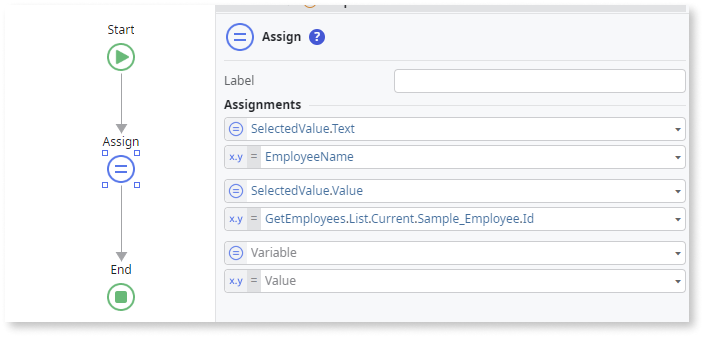
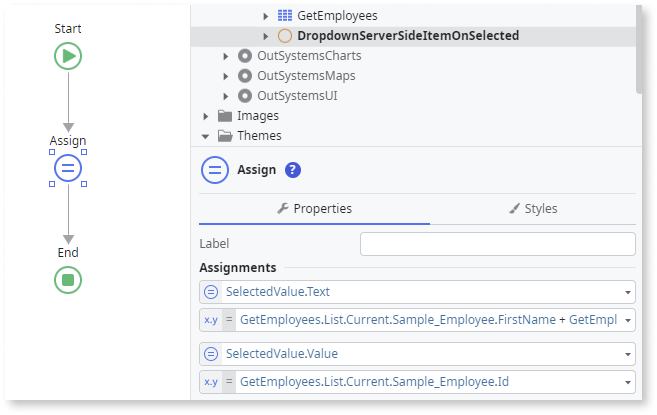
new dropdown server side article RDTKF-17358

diff --git a/src/develop/ui/patterns/mobile/interaction/dropdownserver.md b/src/develop/ui/patterns/mobile/interaction/dropdownserver.md
@@ -5,15 +5,25 @@ locale: en-us
 guid: 8B9A073C-74E8-4019-84DE-C686AAFAC59A
 app_type: mobile apps, reactive web apps
 platform-version: o11
+figma: https://www.figma.com/file/iBD5yo23NiW53L1zdPqGGM/Developing-an-Application?type=design&node-id=3562%3A27976&mode=design&t=bjGuZjSEF5sQNURT-1
 ---
 
 # Dropdown Server Side
 
-The Dropdown Server Side UI Pattern offers a choice of options that the user can search for. You must implement the logic functionality for this version of the Dropdown block as it comes with no preloaded logic.
+The Dropdown Server Side is an advanced OutSystems UI pattern. It has a highly customizable structure for creating tailor-made dropdowns. This pattern is intended to achieve complex use cases. For a further look at how the Dropdown Server Side pattern works, see the [OutSystems Style Guide](https://outsystemsui.outsystems.com/StyleGuidePreview/PatternDetail?MenuCategoryId=8&MenuSubCategorId=90).
+
+## When to use it?
+
+This block is recommended when you want to:
+
+* **Display long lists of options.** In this case, it is recommended to fetch data when needed instead of having all data in memory and the component is prepared for this case. With this component, you will have total control over when data is loaded. 
+
+* **Customize the look and feel of dropdown options.** The structure of the component can be changed in the canvas of Service Studio. For each of the dropdown items, you can drag and drop additional elements such as images, checkboxes, or text. Additionally, you can apply all the logic you need to customize the behavior of the dropdown. 
+
 
 ## How to use the Dropdown Server Side UI Pattern
 
-In this example, we create a Dropdown Server Side for a list of employees. When the user selects an employee, a message displays the employee's name and ID.
+In this example, we create a Dropdown Server Side for a list of employees with a corresponding image. 
 
 1. In Service Studio, in the Toolbox, search for `Dropdown Server Side`.
 
@@ -35,11 +45,11 @@ In this example, we create a Dropdown Server Side for a list of employees. When 
 
     ![Drag widget to the screen](<images/dropdownserver-drag-ss.png>)
 
-1. Select and right-click your screen name, and select **Fetch Data from Database**.
+1. To fetch the data to your screen, select and right-click your screen name, and select **Fetch Data from Database**.
 
     ![Fetch database](<images/dropdownserver-db-ss.png>)
 
-1. To add a database entity, click the **Aggregate editor** window, and from the **Select Source** pop-up, select the relevant database entity and click **Select**.
+1. To add a database entity, click the screen, and from the **Select Source** pop-up, select the relevant database entity and click **Select**.
 
     In this example, we select the **Sample_Employee** entity.
 
@@ -49,78 +59,65 @@ In this example, we create a Dropdown Server Side for a list of employees. When 
 
     ![Get Employee Aggregate](<images/dropdownserver-getemployee-ss.png>)
 
-1. Return to your screen by double-clicking the screen name. Select the **Dropdown Server Side** widget, go to the **Widget Tree** tab, expand **Balloon Content**, and select **List**. 
+1. Return to your screen by double-clicking the screen name. Select the **Dropdown Server Side** widget, and inside the **BallonContent** placeholder, set the list **Source** to **GetEmployees List**.  This populates the dropdown options with a list of employees.
 
     ![Navigate to List](<images/dropdownserver-list-ss.png>)
 
-1. On the **Properties** tab, set the list’s source.  
-
-    In this example, we use **GetEmployees.List**.
-
-    ![Enter the List source](<images/dropdownserver-source-ss.png>)
-
-1. Staying on the **Widget Tree** tab, expand the **List**, and select the **DropdownServerSideItem**. In the **ItemId** field, enter **GetEmployees.List.Current.Sample_Employee.Id.**
-
-    ![Enter ItemId](<images/dropdownserver-itemid-ss.png>)
-
-1. To get the employee's name, select the expression inside the **DropdownItemContent** placeholder and enter the following logic:
-
-    ``GetEmployees.List.Current.Sample_Employee.FirstName + " " + GetEmployees.List.Current.Sample_Employee.LastName``
+1. To display the employee name in the dropdown, expand the **DropdownServerSideItem**, and inside the **DropdownItemContent**, set the expression value as **GetEmployees.List.Current.FirstName + GetEmployees.List.Current.LastName**.
 
     ![Enter logic for Dropdown Item ](<images/dropdownserver-itemcontent-ss.png>)
 
-1. Select the **DropdownServerSideItem** and staying on the **Properties** tab, from the **Handler** dropdown, select **New Client Action**.
+1. To add images to each dropdown item, drag and drop an **Image** widget from the Toolbox to the **DropdownItemContent** placeholder, next to the **Expression** widget.
 
-    ![New client action ](<images/dropdownserver-clientaction-ss.png>)
+    ![Add Image widget](<images/dropdownserver-image-ss.png>)
 
-1. Return to your main screen, add a local variable called **SelectedValue**, and set the **Data Type** to **DropdownItem**. 
+1. Set the image **Type** parameter to **Binary Data** and set the **Image Content** parameter to **GetEmployees.List.Current.Picture** (the employees picture).
 
-1. On the **Widget Tree** tab, select the expression inside of the **True** node of the **If** statement inside the **SelectedValues** placeholder and change the **Value** to the **SelectedValue.Text** variable.
+    ![Set image properties](<images/dropdownserver-imageprop-ss.png>)
 
-    ![Add expression to Selected Value variable](<images/dropdownserver-selectedvalues-ss.png>)
+1. To change the image shape to a circle, set the **Style Classes** parameter to **"img-circle"**.
 
-1. Add the relevant logic to the client action.
+After following these steps and publishing the module, you can test the pattern in your app. 
 
-For this example:
+**Note**: Because this pattern is so customizable, not all features of the widget are used in this example and show up as errors. You can delete all unused elements/parameters of the widget. In this example, we don't use the search feature. For that reason, the elements inside **BalloonSearchInput** and **BalloonSearchInputIcon** are removed to avoid errors.
 
-   1. Add an input parameter (in this example, **EmployeeName**) and set the **Data Type** to **Text**. 
+The results from this example should look something like the following:
 
-       ![Add input parameter to client action](<images/dropdownserver-inputpar-ss.png>)
-   
-   1. On the **Widget Tree** tab, Select the expression inside the **DropDownItem** placeholder and add the following logic in the expression editor: 
+![Result](<images/dropdownserver-result.png>)
 
-        ``GetEmployees.List.Current.Sample_Employee.FirstName + " " + GetEmployees.List.Current.Sample_Employee.LastName``
+### Save the selected option in a local variable
 
-       ![Add logic to input parameter](<images/dropdownserver-logic-exp-ss.png>)
+The following steps demonstrate how you can save the selected dropdown option and display it in a message on screen. 
 
-   1. Add an **Assign** node to the client action and assign the following values:
+1. Return to your main screen, add a local variable called **SelectedValue** and set the **Data Type** to **DropdownItem**. 
 
-        * **SelectedValue.Text** to **EmployeeName**
-    
-        * **SelectedValue.Value** to **GetEmployees.List.Current.Sample_Employee.Id**
+    ![Create a local variable](<images/dropdownserver-selectedvalue-ss.png>)
 
-            ![Add logic to Assign](<images/dropdownserver-assign-ss.png>)
+    This variable is used to save the **DropdownServerSide** selected value. 
 
+1. On the **Widget Tree** tab,  expand the **List**, and select the **DropdownServerSideItem**. In the **ItemId** field, enter **GetEmployees.List.Current.Sample_Employee.Id**.
 
-   1. Add a **Message** to the client action and add the following logic to the expression editor:
+    ![Set the Item Id](<images/dropdownserver-itemid-ss.png>)
 
-        ``SelectedValue.Text + "(Employee ID: " + SelectedValue.Value + ")"``
+1. Select the **DropdownServerSideItem** and staying on the **Properties** tab, on the **OnSelected** event, from the **Handler** dropdown, select **New Client Action**.
 
-        This displays the selected employee's name and ID.
+    ![Add client action](<images/dropdownserver-clientaction-ss.png>)
 
-        ![Add a message to the client action](<images/dropdownserver-message-ss.png>)
-    
-   1. Set the **If** statement inside the **BalloonContent** to **GetEmployees.List.Empty**.
+1. Add an **Assign** node to the client action and assign the following values:
+    * ``SelectedValue.Text`` to ``GetEmployees.List.Current.Sample_Employee.FirstName + GetEmployees.List.Current.Sample_Employee.LastName``
+    * ``SelectedValue.Value`` to ``GetEmployees.List.Current.Sample_Employee.Id``
 
-        ![Set Balloon Content If condition](<images/dropdownserver-ballooncontent-ss.png>)
+    ![Add logic to Assign](<images/dropdownserver-assign-ss.png>)
 
-   1. Set the remaining properties for the **DropdownServerSide** placeholders. In this example, they are deleted as they are not needed.
+1. Add a **Message** to the client action and add the following logic to the expression editor:
 
-        ![Set remaining properties in placeholders](<images/dropdownserver-placeholders-ss.png>)
+    ``SelectedValue.Text + "(Employee ID: " + SelectedValue.Value + ")"``
 
-   1. Click **Close**.
+    ![Add logic to Message](<images/dropdownserver-message-ss.png>)
 
-After following these steps and publishing the module, you can test the pattern in your app.
+After following these steps and publishing the module, you can test the pattern in your app. The results from this example should look something like the following:
+
+![Add logic to Message](<images/dropdownserver-selectedval-result.png>)
 
 ## Properties
 
@@ -128,7 +125,7 @@ After following these steps and publishing the module, you can test the pattern 
 
 | Property  | Description  | 
 |---|---|
-|AllowMultipleSelection (Boolean): Optional|If true, users can select multiple options. If False, users can only select one option. This is the default. <br/>If AllowMultipleSelection is False, the dropdown automatically closes after the user picks an option, otherwise it remains open.| 
+|AllowMultipleSelection (Boolean): Optional|If True, users can select multiple options. If False, users can only select one option. This is the default. <br/>If AllowMultipleSelection is False, the dropdown automatically closes after the user picks an option, otherwise it remains open.| 
 |IsDisabled (Boolean): Optional|Set as True to disable the Dropdown. False is the default value (the dropdown is active).| 
 |ExtendedClass (Text): Optional|Adds custom style classes to the Pattern. You define your [custom style classes](../../../look-feel/css.md) in your application using CSS. <p>Examples <ul><li>Blank - No custom styles are added (default value).</li><li>"myclass" - Adds the ``myclass`` style to the UI styles being applied.</li><li>"myclass1 myclass2" - Adds the ``myclass1`` and ``myclass2`` styles to the UI styles being applied.</li></ul></p>You can also use the classes available on the OutSystems UI. For more information, see the [OutSystems UI Cheat Sheet](https://outsystemsui.outsystems.com/OutSystemsUIWebsite/CheatSheet).|
 
